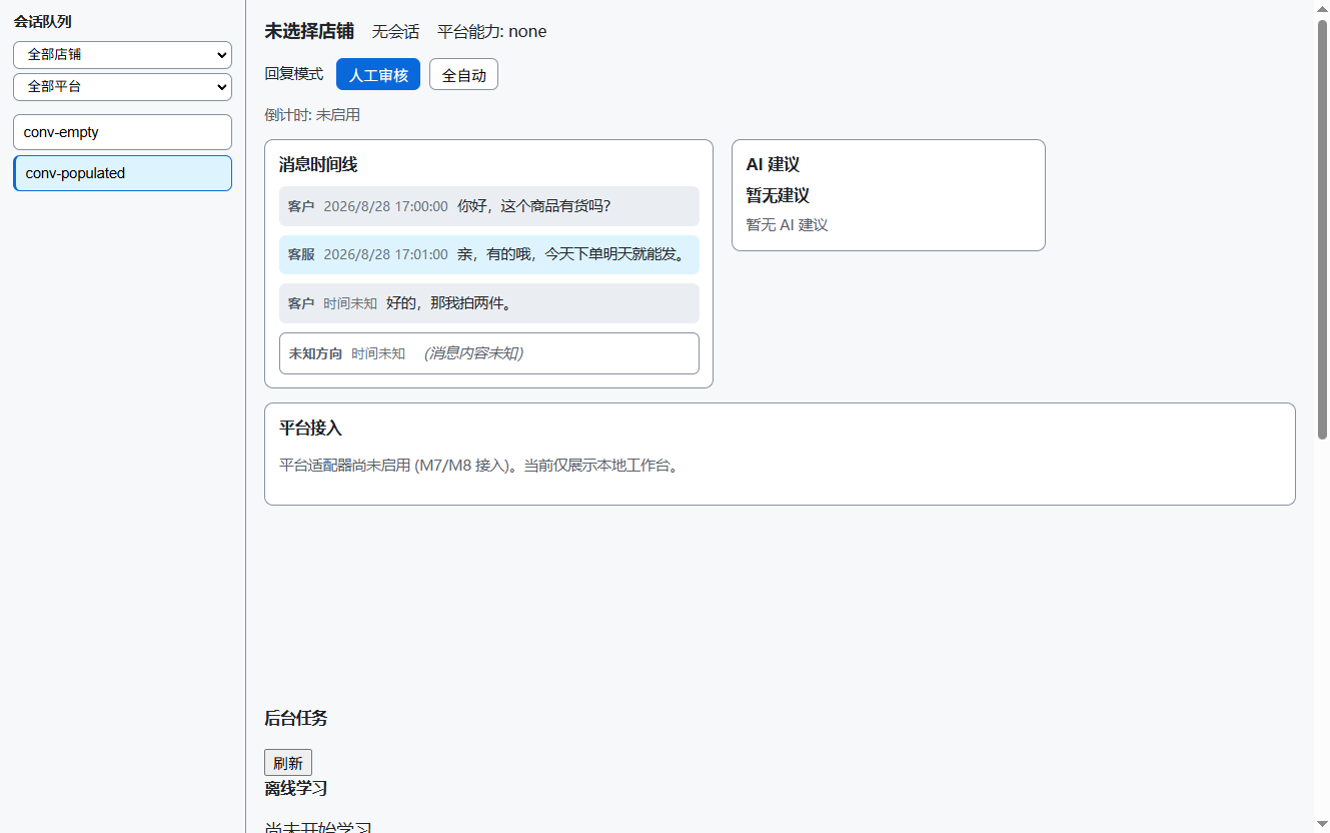
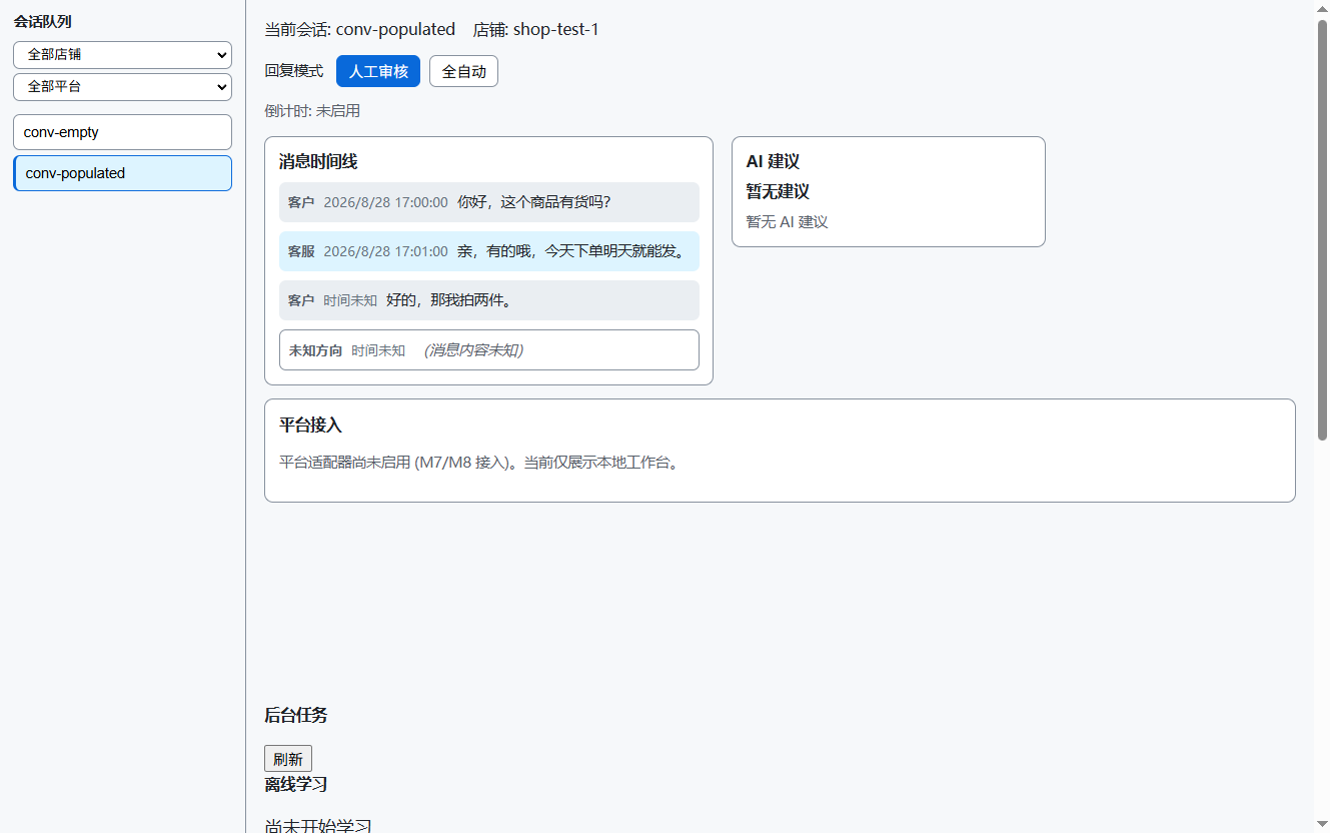
SHEEP-063 REPAIR: Active Conversation presentation consistency (I-7 concretization / new I-26 WORKSPACE_ACTIVE_CONVERSATION_PRESENTATION_MUST_NOT_FALL_BACK_TO_AMBIENT_SCOPE_FACTS) — activeConversationPresentation(state) pure helper (identity anchor + store_id from active queue item + state/buyer onl

diff --git a/apps/desktop/tests/renderer-active-conversation.test.ts b/apps/desktop/tests/renderer-active-conversation.test.ts
@@ -1,0 +1,81 @@
+import { test } from "node:test";
+import assert from "node:assert/strict";
+import { readFileSync } from "node:fs";
+import { join, dirname } from "node:path";
+import { fileURLToPath } from "node:url";
+import { EMPTY_UI_STATE, activeConversationPresentation, type UiState } from "../dist/renderer/state/view-model.js";
+import type { WorkbenchViewModel, QueueItemView } from "@fastwork/desktop-ipc";
+
+// SHEEP-063 REPAIR (I-7 concretization / I-26): active-conversation presentation
+//   - active exists => presentation reflects the active identity (NEVER 无会话)
+//   - c1 -> c2 switch => header presentation follows the active identity (no mixed context)
+//   - Queue Store/Platform Scope change must NOT rewrite the active header identity
+//   - no-active state ONLY when activeConversationId == null
+const HERE = dirname(fileURLToPath(import.meta.url));
+const R = join(HERE, "..", "src", "renderer", "components");
+
+function vmWithConversation(id: string, state = "idle", buyer?: string): WorkbenchViewModel {
+  return {
+    revision: 1,
+    shop_summaries: [],
+    selected_shop_id: "shop-ambient",
+    conversation: { conversation_id: id, shop_id: "shop-ambient", state, buyer },
+    suggestion: null,
+    mode: "human_review",
+    countdown: null,
+    worker_status: { status: "ready" },
+    platform_capability: "none",
+  };
+}
+function stateWith(overrides: Partial<UiState>): UiState {
+  return { ...EMPTY_UI_STATE, ...overrides };
+}
+
+test("active conversation exists => presentation reflects active identity (≠ no-conversation), store from active queue item", () => {
+  const items: QueueItemView[] = [{ conversation_id: "c1", store_id: "A1" }, { conversation_id: "c2", store_id: "A2" }];
+  const s = stateWith({ activeConversationId: "c1", queueItems: items, viewModel: vmWithConversation("c1", "CLAIMED", "买家甲") });
+  const p = activeConversationPresentation(s);
+  assert.ok(p, "active conversation must yield a presentation (not null/no-conversation)");
+  assert.equal(p?.conversationId, "c1");
+  assert.equal(p?.storeId, "A1", "store from the active queue item (conversation-bound fact)");
+  assert.equal(p?.state, "CLAIMED", "state only from matching viewModel.conversation");
+  assert.equal(p?.buyer, "买家甲");
+});
+
+test("c1 -> c2 switch: header presentation follows the active identity (no mixed context, I-7)", () => {
+  const items: QueueItemView[] = [{ conversation_id: "c1", store_id: "A1" }, { conversation_id: "c2", store_id: "A2" }];
+  const s1 = stateWith({ activeConversationId: "c1", queueItems: items, viewModel: vmWithConversation("c1") });
+  const p1 = activeConversationPresentation(s1);
+  assert.equal(p1?.conversationId, "c1");
+  const s2 = { ...s1, activeConversationId: "c2" };
+  const p2 = activeConversationPresentation(s2);
+  assert.equal(p2?.conversationId, "c2", "header presentation must follow the active identity");
+  assert.equal(p2?.storeId, "A2");
+  // viewModel.conversation is c1 but active is c2 -> its facts must NOT leak (mixed context)
+  assert.equal(p2?.state, null, "c1 viewModel facts must not be presented as c2 (no mixed context)");
+});
+
+test("Queue Store/Platform Scope change must NOT rewrite the active header identity (I-7/I-26)", () => {
+  const items: QueueItemView[] = [{ conversation_id: "c1", store_id: "A1" }];
+  const base = stateWith({ activeConversationId: "c1", queueItems: items, viewModel: vmWithConversation("c1") });
+  const before = activeConversationPresentation(base);
+  // change queue scope (ambient) — must not affect active header identity
+  const scoped = { ...base, queueScope: { kind: "specific_store", storeId: "B9" } as const };
+  const after = activeConversationPresentation(scoped);
+  assert.equal(after?.conversationId, before?.conversationId, "scope change must not rewrite active header identity");
+  assert.equal(after?.storeId, "A1", "store stays the active conversation's store, not the queue scope store");
+});
+
+test("no-active state only when activeConversationId == null (I-7)", () => {
+  assert.equal(activeConversationPresentation(stateWith({ activeConversationId: null })), null, "no active -> null (no-conversation only here)");
+  assert.equal(activeConversationPresentation(stateWith({ activeConversationId: "c1" }))?.conversationId, "c1", "any non-null active -> identity");
+});
+
+test("header + conversation-panel use the active-conversation presentation; no-conversation copy is gated on activeConversationId == null (I-7)", () => {
+  for (const f of ["workbench-header.ts", "conversation-panel.ts"]) {
+    const src = readFileSync(join(R, f), "utf-8");
+    assert.ok(src.includes("activeConversationPresentation"), f + " must use the active-conversation presentation helper");
+    assert.ok(src.includes("active === null"), f + " must gate the no-active state on activeConversationId == null");
+    assert.ok(!src.includes('conv ? `会话'), f + " must not render a conversation line from ambient vm.conversation");
+  }
+});

diff --git a/apps/desktop/src/renderer/components/conversation-panel.ts b/apps/desktop/src/renderer/components/conversation-panel.ts
@@ -1,5 +1,9 @@
-// M6 conversation panel (clean-room): safe conversation/send/takeover projection.
+// M6 conversation panel (clean-room): reflects the authoritative ACTIVE Conversation
+// identity when one exists (SHEEP-063 REPAIR, I-7 concretization / I-26). Facts are
+// conversation-bound only; never falls back to selectedShop / Queue Scope / ambient
+// state; unavailable facts are omitted / shown as 未知, never fabricated.
 import type { UiState } from "../state/view-model.js";
+import { activeConversationPresentation } from "../state/view-model.js";
 import { clear, el } from "./dom.js";
 import { emptyState } from "./states/empty.js";
 
@@ -7,20 +11,35 @@ export function renderConversationPanel(root: HTMLElement, state: UiState): void
   clear(root);
   const panel = el("section", "conversation-panel");
   panel.appendChild(el("h3", "panel-title", "会话"));
-  const vm = state.viewModel;
-  const conv = vm?.conversation;
-  if (!conv) {
-    panel.appendChild(emptyState({ meaning: "no-work", title: "暂无活动会话", body: "当前店铺没有活动会话" }));
-  } else {
-    const rows = el("dl", "conversation-facts");
-    rows.appendChild(fact("会话状态", conv.state));
-    if (conv.buyer) rows.appendChild(fact("买家", conv.buyer));
-    panel.appendChild(rows);
+  const active = activeConversationPresentation(state);
+  if (active === null) {
+    // No-active: only when activeConversationId == null (I-7/I-26). Fall back to the
+    // clean-room legacy projection for the no-active header; no conversation -> no-work.
+    const conv = state.viewModel?.conversation;
+    if (!conv) {
+      panel.appendChild(emptyState({ meaning: "no-work", title: "暂无活动会话", body: "当前店铺没有活动会话" }));
+    } else {
+      const rows = el("dl", "conversation-facts");
+      rows.appendChild(fact("会话状态", conv.state));
+      if (conv.buyer) rows.appendChild(fact("买家", conv.buyer));
+      panel.appendChild(rows);
+      if (state.viewModel?.send_status) panel.appendChild(el("p", "send-status", `发送状态: ${state.viewModel.send_status}`));
+      if (state.viewModel?.takeover_status) panel.appendChild(el("p", "takeover-status", `接管状态: ${state.viewModel.takeover_status}`));
+    }
+    root.appendChild(panel);
+    return;
   }
-  const send = vm?.send_status;
-  if (send) panel.appendChild(el("p", "send-status", `发送状态: ${send}`));
-  const takeover = vm?.takeover_status;
-  if (takeover) panel.appendChild(el("p", "takeover-status", `接管状态: ${takeover}`));
+  // Active conversation identity is the authoritative anchor; never "暂无活动会话".
+  panel.appendChild(el("p", "conversation-active-id", `当前会话: ${active.conversationId}`));
+  if (active.storeId !== null) panel.appendChild(el("p", "conversation-active-store", `店铺: ${active.storeId}`));
+  if (active.state !== null) panel.appendChild(fact("会话状态", active.state));
+  if (active.buyer !== null) panel.appendChild(fact("买家", active.buyer));
+  // send/takeover only from a matching active-conversation projection; otherwise omitted.
+  const vm = state.viewModel;
+  if (vm?.conversation && vm.conversation.conversation_id === active.conversationId) {
+    if (vm.send_status) panel.appendChild(el("p", "send-status", `发送状态: ${vm.send_status}`));
+    if (vm.takeover_status) panel.appendChild(el("p", "takeover-status", `接管状态: ${vm.takeover_status}`));
+  }
   root.appendChild(panel);
 }
 
@@ -32,3 +51,4 @@ function fact(label: string, value: string): HTMLElement {
   group.appendChild(dd);
   return group;
 }
+

diff --git a/apps/desktop/src/renderer/components/workbench-header.ts b/apps/desktop/src/renderer/components/workbench-header.ts
@@ -1,15 +1,33 @@
-// M6 workbench header (clean-room): current shop/conversation + platform capability.
+// M6 workbench header (clean-room): reflects the authoritative ACTIVE Conversation
+// identity when one exists (SHEEP-063 REPAIR, I-7 concretization / I-26).
+// Header facts are conversation-bound only: active conversation id (navigation
+// anchor), store_id from the active queue item (Main-projected conversation fact),
+// and viewModel.conversation facts ONLY when they match the active identity.
+// Never falls back to selectedShop / Queue Scope / ambient state; when a fact is
+// unavailable it is omitted or shown as 未知 — never fabricated.
 import type { UiState } from "../state/view-model.js";
+import { activeConversationPresentation } from "../state/view-model.js";
 import { clear, el } from "./dom.js";
 
 export function renderWorkbenchHeader(root: HTMLElement, state: UiState): void {
   clear(root);
-  const vm = state.viewModel;
   const header = el("header", "workbench-header");
-  const shop = vm?.shop_summaries.find((s) => s.shop_id === state.selectedShopId);
-  header.appendChild(el("div", "header-shop", shop ? shop.name : "未选择店铺"));
-  const conv = vm?.conversation;
-  header.appendChild(el("div", "header-conversation", conv ? `会话 ${conv.conversation_id} · ${conv.state}` : "无会话"));
-  header.appendChild(el("div", "header-platform", `平台能力: ${vm?.platform_capability ?? "none"}`));
+  const active = activeConversationPresentation(state);
+  if (active === null) {
+    // I-7/I-26: no-active state is used ONLY when activeConversationId == null.
+    const shop = state.viewModel?.shop_summaries.find((s) => s.shop_id === state.selectedShopId);
+    header.appendChild(el("div", "header-shop", shop ? shop.name : "未选择店铺"));
+    header.appendChild(el("div", "header-conversation", "无会话"));
+    header.appendChild(el("div", "header-platform", `平台能力: ${state.viewModel?.platform_capability ?? "none"}`));
+    root.appendChild(header);
+    return;
+  }
+  // Active conversation identity is the authoritative anchor; never "无会话".
+  header.appendChild(el("div", "header-conversation", `当前会话: ${active.conversationId}`));
+  // store_id is a Main-projected conversation fact (from the active queue item).
+  header.appendChild(el("div", "header-store", active.storeId !== null ? `店铺: ${active.storeId}` : "店铺: 未知"));
+  // state only when the viewModel.conversation matches the active identity.
+  if (active.state !== null) header.appendChild(el("div", "header-state", `状态: ${active.state}`));
+  // platform is NOT a trusted active-conversation fact here -> omitted (no ambient backfill).
   root.appendChild(header);
 }

diff --git a/apps/desktop/src/renderer/state/view-model.ts b/apps/desktop/src/renderer/state/view-model.ts
@@ -131,6 +131,37 @@ export function clearTimeline(state: UiState): UiState {
   return { ...state, timelineConversationId: null, timelineMessages: [], timelineLoading: false, timelineError: null };
 }
 
+// ---- SHEEP-063 REPAIR (I-7 concretization / I-26): Active Conversation presentation ----
+
+/** Authoritative active-conversation presentation facts (I-7/I-26). Only
+ *  conversation-bound trusted facts: the active conversation identity (navigation
+ *  anchor, DP-69), store_id from the ACTIVE queue item (Main-projected conversation
+ *  fact), and viewModel.conversation facts ONLY when they match the active identity.
+ *  Never falls back to selectedShop / Queue Scope / other ambient state. */
+export interface ActiveConversationPresentation {
+  conversationId: string;
+  storeId: string | null;
+  state: string | null;
+  buyer: string | null;
+}
+
+/** I-26 WORKSPACE_ACTIVE_CONVERSATION_PRESENTATION_MUST_NOT_FALL_BACK_TO_AMBIENT_SCOPE_FACTS:
+ *  returns the active-conversation presentation, or null when there is NO active
+ *  conversation (activeConversationId == null). A non-null result always reflects
+ *  the active conversation identity — never a queue/selected-shop ambient fact. */
+export function activeConversationPresentation(state: UiState): ActiveConversationPresentation | null {
+  if (state.activeConversationId === null) return null;
+  const item = state.queueItems.find((i) => i.conversation_id === state.activeConversationId);
+  const conv = state.viewModel?.conversation;
+  const trustedConv = conv && conv.conversation_id === state.activeConversationId ? conv : null;
+  return {
+    conversationId: state.activeConversationId,
+    storeId: item?.store_id ?? null,
+    state: trustedConv?.state ?? null,
+    buyer: trustedConv?.buyer ?? null,
+  };
+}
+
 export function setPendingCommand(state: UiState, command: UiState["pendingCommand"]): UiState {
   return { ...state, pendingCommand: command };
 }

diff --git a/docs/fast-sheep-message-timeline.md b/docs/fast-sheep-message-timeline.md
@@ -37,7 +37,15 @@
 - 回归：desktop 280/280、workspace typecheck+test 全 PASS、m6 Electron smoke PASS（external_network_calls=0）、check:boundary + secret scan PASS。
 - **Visual evidence**（真实 persistence/ingestion→Main→typed IPC→Renderer）：`sheep-063-timeline-populated.png`（含 customer/agent + 时间未知 + incomplete historical）、`sheep-063-timeline-empty.png`（production-real no-work empty）、`sheep-063-timeline-switch.png`（active 切换后旧 facts 无残留）。
 
-## 4. 边界（未实现/未改动）
+## 4. REPAIR（Owner 2026-08-28）：Active Conversation presentation consistency（I-7 具体化 / 新增 I-26）
+
+- **I-26** `WORKSPACE_ACTIVE_CONVERSATION_PRESENTATION_MUST_NOT_FALL_BACK_TO_AMBIENT_SCOPE_FACTS`（I-7 具体化）：active conversation 存在时，Workspace header / conversation panel 必须反映 authoritative active identity；Store/Platform 等 header facts 仅来自 active Conversation 的可信 projection（active queue item 的 store_id、匹配 active identity 的 viewModel.conversation），**不得从 Queue Scope / selected shop / 其它 ambient state 回填**；事实不可用时省略或明确 未知。
+- 修复：新增 `activeConversationPresentation(state)` 纯 helper（identity anchor + store_id from active queue item + state/buyer only when viewModel.conversation matches）；`workbench-header.ts` / `conversation-panel.ts` 重构为 active 分支（`当前会话: <id>`）与 no-active 分支（`activeConversationId == null` 才显示 无会话/暂无活动会话）。
+- 不变量：header 与 Timeline 始终同一 active identity（无 header=c1/timeline=c2 mixed context）；Queue Store/Platform Scope 改变不改写 active header identity。
+- 测试（5 guard）：active exists != no-conversation；c1→c2 header/timeline 一致；scope-change 不改 active header；no-active 仅 activeConversationId==null；组件使用 helper 且 no-conversation copy 以 active===null 为门。
+- Visual evidence（重捕获，最小两张）：`sheep-063-timeline-populated.png` / `sheep-063-timeline-empty.png`（header 显示 active 会话 identity）。
+
+## 5. 边界（未实现/未改动）
 
 - 未实现 Composer、Attachments（SHEEP-065）、Unread、Priority、Risk、真实平台 producer、sync/Outbox、auth/cloud/session/multi-merchant selector、最终 Conversation-centered Workspace redesign。
 - `UNREAD_FACT_READINESS = PARTIALLY_READY / STILL_BLOCKED_BY_READER_PROGRESS`（不变；未实现 unread boolean/count）。
